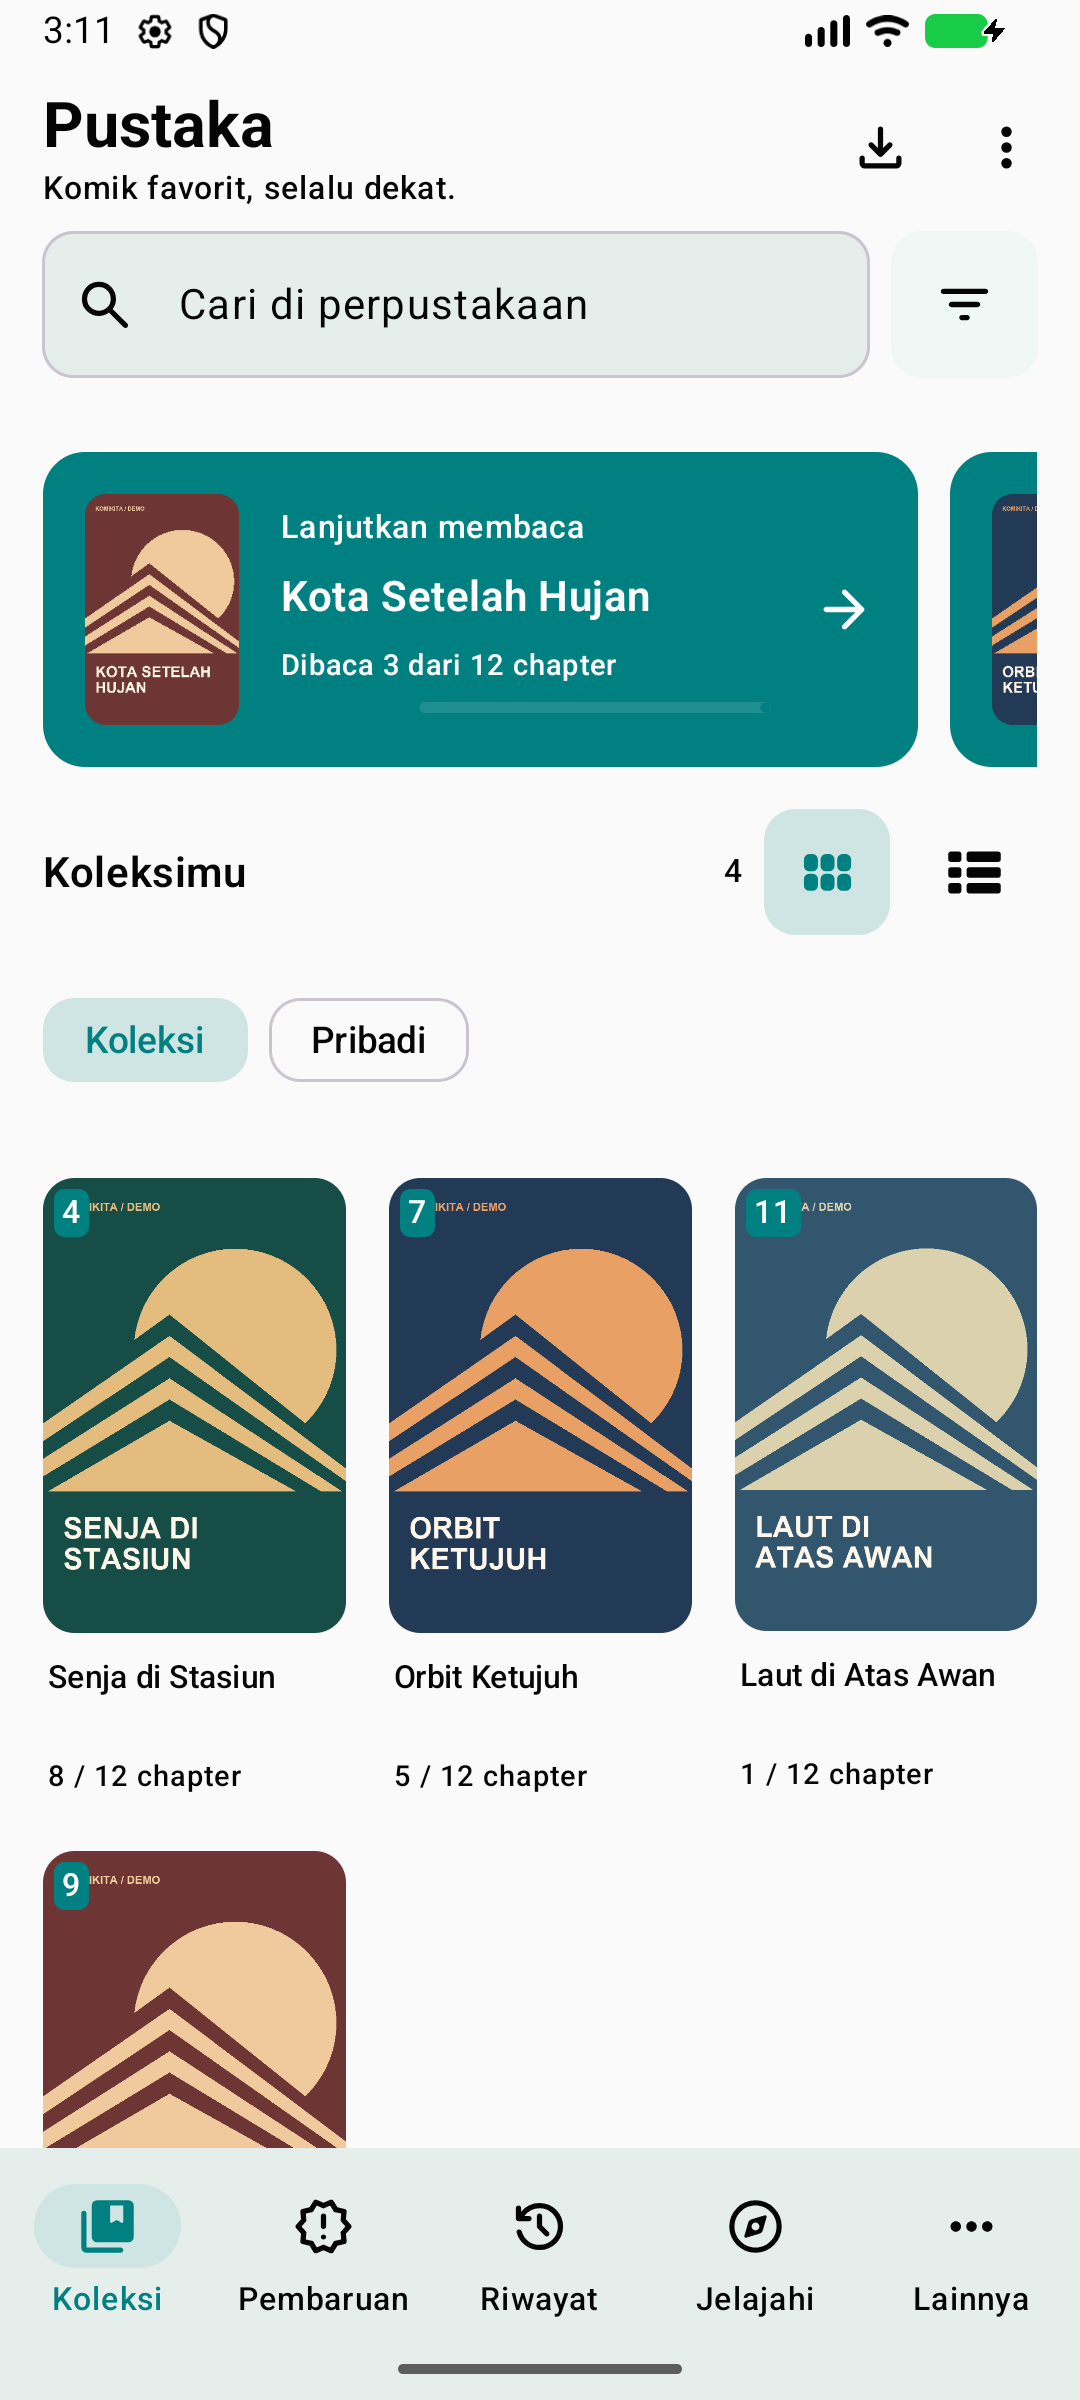
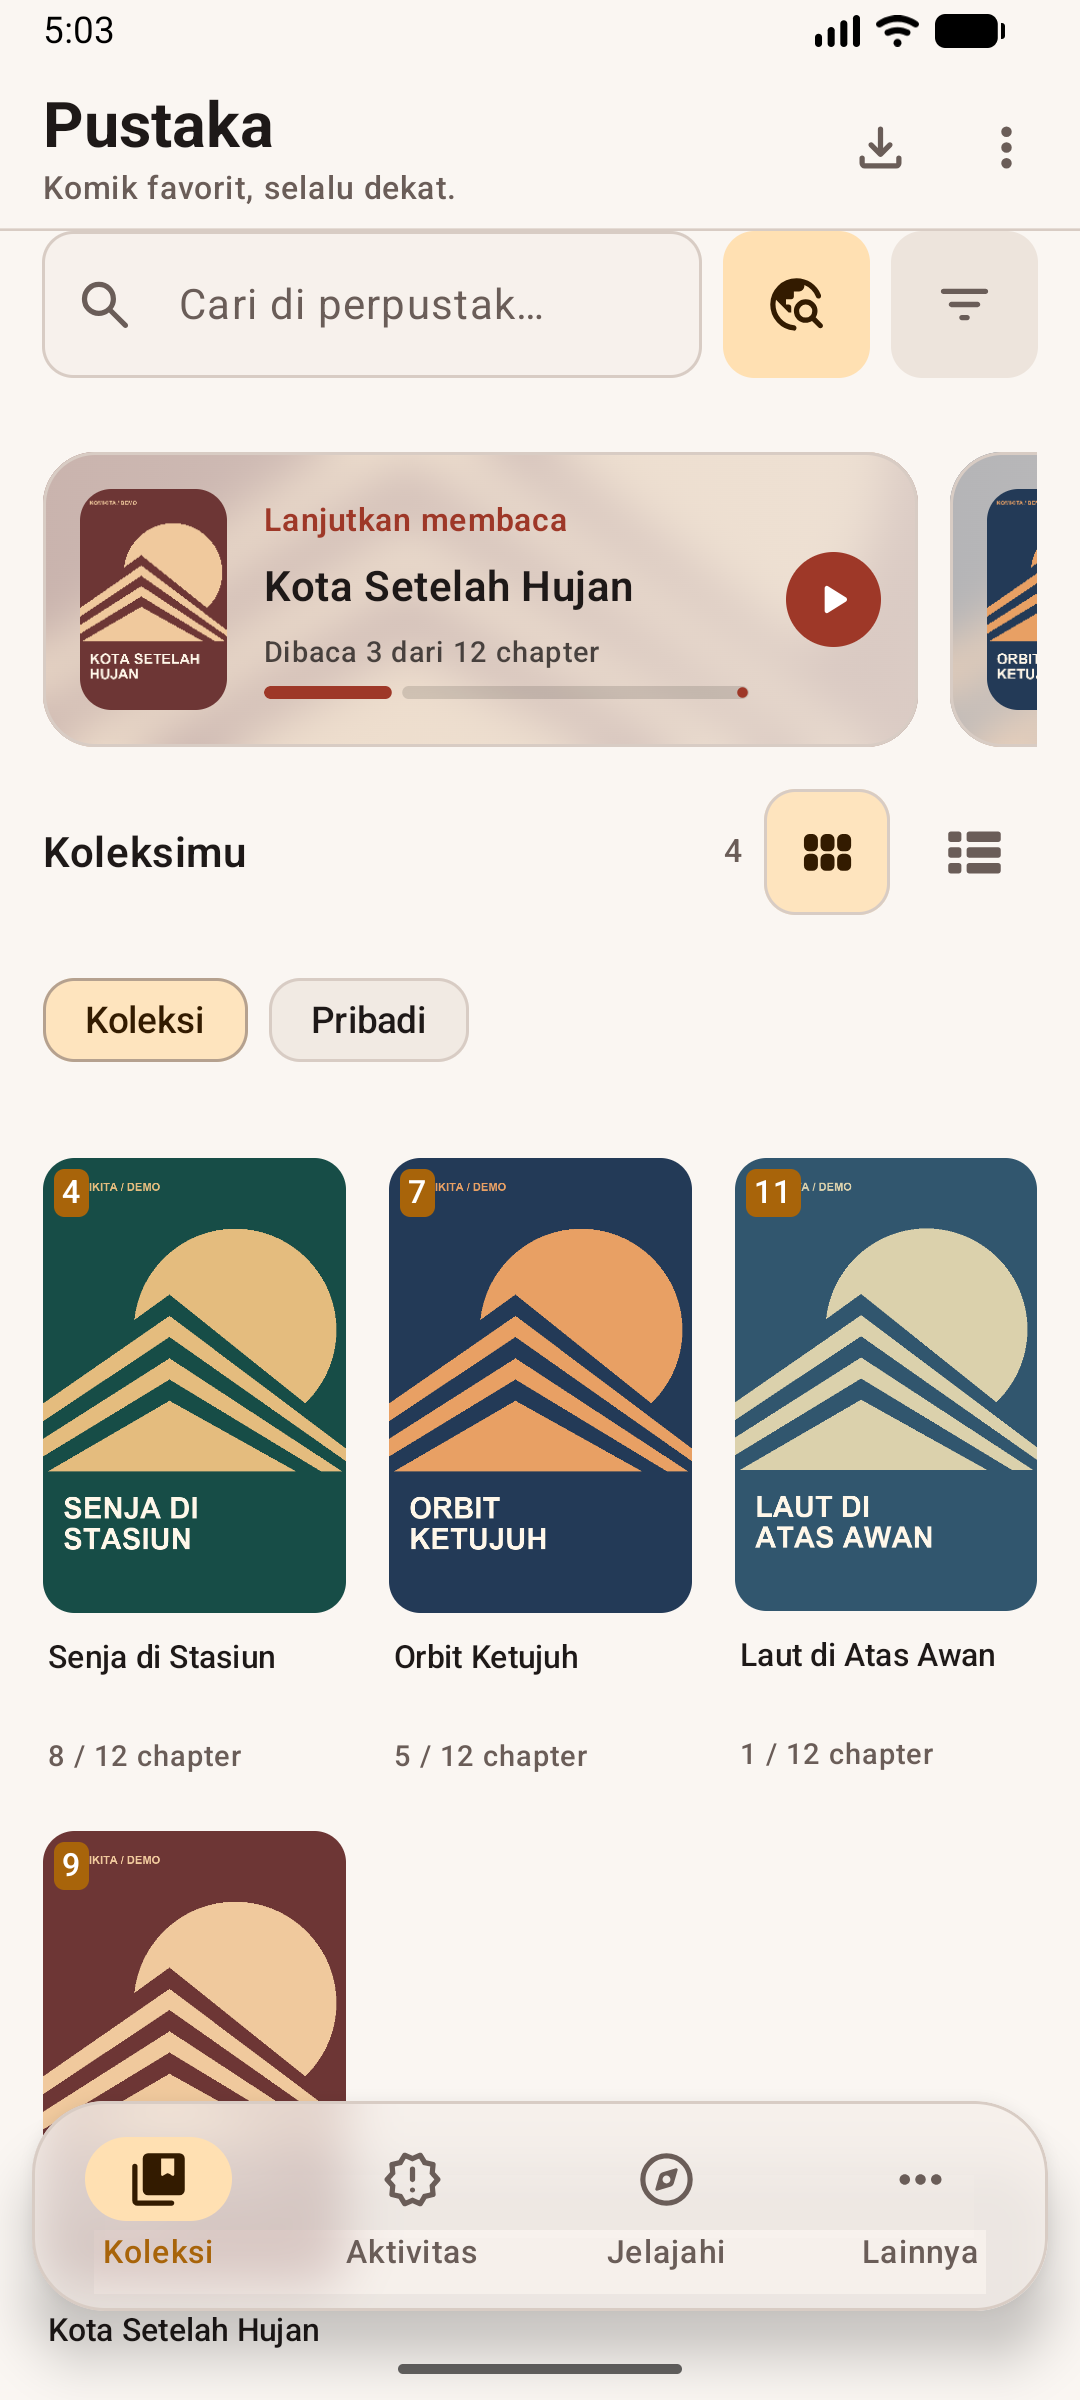
docs(readme): refresh screenshots and feature documentation
Update READMEs and demo tooling to showcase the KomiKita Warm theme,
Glass appearance, and unified Activity tab, including a new activity
screenshot and updated seed preferences.

diff --git a/tools/demo/seed_demo.py b/tools/demo/seed_demo.py
@@ -106,8 +106,9 @@ def main():
         adb("shell", "run-as", PACKAGE, "cp", "/data/local/tmp/komikita-demo.db", "databases/tachiyomi.db")
     prefs = ET.Element("map")
     ET.SubElement(prefs, "boolean", name="__APP_STATE_onboarding_complete", value="true")
-    ET.SubElement(prefs, "string", name="pref_app_theme").text = "TEALTURQUOISE"
+    ET.SubElement(prefs, "string", name="pref_app_theme").text = "KOMIKITA_WARM"
     ET.SubElement(prefs, "string", name="pref_theme_mode_key").text = "LIGHT"
+    ET.SubElement(prefs, "string", name="bottom_navigation_style").text = "GLASS"
     with tempfile.TemporaryDirectory(prefix="komikita-prefs-") as temp:
         prefs_path = Path(temp) / "preferences.xml"
         prefs_path.write_bytes(ET.tostring(prefs, encoding="utf-8", xml_declaration=True))

diff --git a/README.id.md b/README.id.md
@@ -18,14 +18,15 @@ KomiKita adalah aplikasi Android bersumber terbuka untuk membaca manga, komik, d
 </div>
 
 <p align="center">
-  <img src=".github/assets/screenshots/library.png" alt="Pustaka KomiKita dengan carousel Lanjutkan membaca" width="30%" />
-  <img src=".github/assets/screenshots/reading-year.png" alt="Rekap tahunan, chapter selesai, waktu baca, dan streak" width="30%" />
-  <img src=".github/assets/screenshots/privacy.png" alt="Kategori tersembunyi dilindungi biometrik atau PIN perangkat Android" width="30%" />
+  <img src=".github/assets/screenshots/library.png" alt="Pustaka KomiKita dengan tema KomiKita Warm, Glass UI, dan carousel Lanjutkan membaca" width="23%" />
+  <img src=".github/assets/screenshots/activity.png" alt="Tab Aktivitas yang menggabungkan Pembaruan dan Riwayat dengan pengalih cepat" width="23%" />
+  <img src=".github/assets/screenshots/reading-year.png" alt="Rekap tahunan, chapter selesai, waktu baca, dan streak" width="23%" />
+  <img src=".github/assets/screenshots/privacy.png" alt="Kategori tersembunyi dilindungi biometrik atau PIN perangkat Android" width="23%" />
 </p>
 
 Screenshot aplikasi asli dengan judul demo orisinal. [Cara membuat ulang demo](tools/demo/README.md).
 
-KomiKita berawal dari [Mihon](https://github.com/mihonapp/mihon), penerus basis kode Tachiyomi. Fork ini menambahkan pengaturan visibilitas perpustakaan, kartu Lanjutkan Membaca, dan pembaruan dari dalam aplikasi. KomiKita punya ID aplikasi sendiri dan bisa dipasang berdampingan dengan Mihon.
+KomiKita berawal dari [Mihon](https://github.com/mihonapp/mihon), penerus basis kode Tachiyomi. Fork ini menambahkan Glass UI dan tema khusus, tab Aktivitas terpadu, pencarian pustaka semantik, carousel Lanjutkan Membaca, pengaturan visibilitas perpustakaan, pemblokir iklan WebView, serta pembaruan dari dalam aplikasi. KomiKita punya ID aplikasi sendiri dan bisa dipasang berdampingan dengan Mihon.
 
 ## Daftar isi
 
@@ -45,12 +46,16 @@ KomiKita berawal dari [Mihon](https://github.com/mihonapp/mihon), penerus basis 
 
 | Fitur | Cara kerjanya |
 | --- | --- |
+| Tampilan dan tema | Menyertakan tema **KomiKita Warm** dan **Mint Ink** bersama palet bawaan lainnya, serta gaya tampilan **Glass** opsional dengan permukaan transparan dan navigasi blur. |
 | Pembaca | Pilih mode halaman atau webtoon. Arah baca, tema, dan kontrol bisa diatur dari pembaca. |
 | Perpustakaan | Buat kategori, cari dan filter judul, lalu pilih tampilan grid atau daftar. |
+| Pencarian semantik | Cari judul di perpustakaan berdasarkan makna menggunakan model embedding MediaPipe di perangkat langsung dari bilah pencarian. |
 | Lanjutkan Membaca | Geser hingga lima rekomendasi: bacaan terakhir, bacaan lain yang baru dibuka, atau komik dengan chapter baru. Notifikasi chapter baru juga memiliki tombol Lanjutkan membaca. |
+| Tab Aktivitas | Menggabungkan **Pembaruan** dan **Riwayat** dalam satu tab dengan pengalih cepat. |
 | Bacaan offline dan lokal | Unduh chapter atau buka komik yang tersimpan di perangkat. |
 | Privasi | Buka kategori tersembunyi dengan biometrik atau PIN, pola, atau sandi perangkat Android. Kategori terkunci lagi saat aplikasi masuk latar belakang. Judulnya tidak muncul di Lanjutkan membaca, riwayat, notifikasi pembaruan, dan widget. |
 | Visibilitas | Di Jelajah, sembunyikan ekstensi dan sumbernya tanpa mencopot ekstensi. |
+| Pemblokir iklan WebView | Blokir iklan di WebView bawaan menggunakan aturan bawaan, daftar filter yang dapat diunduh, dan aturan kustom. |
 | Statistik membaca | Lihat chapter selesai, waktu baca, streak saat ini dan terpanjang, serta rekap tahunan berisi judul favorit dan waktu baca bulanan. |
 | Log diagnostik | Ekspor log aplikasi terbaru dan detail perangkat dari pengaturan Lanjutan, dengan URL, kredensial, dan judul tersembunyi disamarkan. |
 | Ikon ekstensi | Tampilkan ikon ekstensi pada komik di perpustakaan. |
@@ -75,7 +80,6 @@ Untuk unduhan yang lebih kecil di perangkat ARM64, pilih `komikita-arm64-v8a-vX.
 | --- | --- |
 | `komikita-arm64-v8a-vX.Y.Z.apk` | Ponsel dan tablet ARM64. |
 | `komikita-armeabi-v7a-vX.Y.Z.apk` | Perangkat dengan ARM 32-bit. |
-| `komikita-x86-vX.Y.Z.apk` | Perangkat atau emulator x86 32-bit. |
 | `komikita-x86_64-vX.Y.Z.apk` | Perangkat atau emulator x86 64-bit. |
 | `komikita-vX.Y.Z.apk` | APK universal untuk semua arsitektur di atas. |
 

diff --git a/README.md b/README.md
@@ -18,14 +18,15 @@ KomiKita is an open-source Android app for reading manga, comics, and webtoons. 
 </div>
 
 <p align="center">
-  <img src=".github/assets/screenshots/library.png" alt="KomiKita library with a Continue reading carousel" width="30%" />
-  <img src=".github/assets/screenshots/reading-year.png" alt="Reading year recap, completed chapters, reading time, and streaks" width="30%" />
-  <img src=".github/assets/screenshots/privacy.png" alt="Hidden categories protected by Android biometrics or device PIN" width="30%" />
+  <img src=".github/assets/screenshots/library.png" alt="KomiKita library in KomiKita Warm theme with Glass UI and Continue reading carousel" width="23%" />
+  <img src=".github/assets/screenshots/activity.png" alt="Activity tab combining Updates and History with a quick switcher" width="23%" />
+  <img src=".github/assets/screenshots/reading-year.png" alt="Reading year recap, completed chapters, reading time, and streaks" width="23%" />
+  <img src=".github/assets/screenshots/privacy.png" alt="Hidden categories protected by Android biometrics or device PIN" width="23%" />
 </p>
 
 Actual app screenshots with original demo titles. [Reproduce the demo](tools/demo/README.md).
 
-[Mihon](https://github.com/mihonapp/mihon) carries on the Tachiyomi codebase. KomiKita is a Mihon fork that adds library visibility controls, a Continue reading card, and in-app updates. Its separate application ID lets you install it alongside Mihon.
+[Mihon](https://github.com/mihonapp/mihon) carries on the Tachiyomi codebase. KomiKita is a Mihon fork that adds Glass UI and custom themes, a unified Activity tab, semantic library search, a Continue reading carousel, library visibility controls, a WebView ad blocker, and in-app updates. Its separate application ID lets you install it alongside Mihon.
 
 ## Contents
 
@@ -45,12 +46,16 @@ Actual app screenshots with original demo titles. [Reproduce the demo](tools/dem
 
 | Feature | How it works |
 | --- | --- |
+| Appearance & themes | Includes **KomiKita Warm** and **Mint Ink** themes alongside built-in palettes, plus an optional **Glass** appearance style with translucent surfaces and backdrop-blurred navigation. |
 | Reader | Choose page or webtoon mode. Set the reading direction, theme, and controls in the reader. |
 | Library | Create categories, search and filter titles, and switch between grid and list views. |
+| Semantic search | Search your library by meaning using an on-device MediaPipe embedding model directly from the library toolbar. |
 | Continue reading | Swipe through up to five recommendations. Keep reading your latest title or pick another recent read or update. New chapter notifications also offer a Continue reading action. |
+| Activity tab | Combines **Updates** and **History** into a single tab with a quick switcher. |
 | Offline and local reading | Download chapters or open comics stored on your device. |
 | Privacy | Unlock hidden categories using Android biometrics or your device PIN, pattern, or password. They lock again in the background. Hidden titles stay out of Continue reading, history, update notifications, and widgets. |
 | Visibility | In Browse, hide extensions and their sources without uninstalling them. |
+| WebView ad blocker | Block ads in the built-in WebView using built-in rules, downloadable filter lists, and custom rules. |
 | Reading statistics | See completed chapters, reading time, current and best streaks, and yearly recaps with your most read titles and monthly reading time. |
 | Diagnostic logs | Export recent app logs and device details from Advanced settings, with URLs, credentials, and hidden titles redacted. |
 | Extension icons | Show extension icons on library covers. |
@@ -75,7 +80,6 @@ For a smaller download on an ARM64 device, choose `komikita-arm64-v8a-vX.Y.Z.apk
 | --- | --- |
 | `komikita-arm64-v8a-vX.Y.Z.apk` | ARM64 phones and tablets. |
 | `komikita-armeabi-v7a-vX.Y.Z.apk` | Devices using 32-bit ARM. |
-| `komikita-x86-vX.Y.Z.apk` | Devices or emulators using 32-bit x86. |
 | `komikita-x86_64-vX.Y.Z.apk` | Devices or emulators using 64-bit x86. |
 | `komikita-vX.Y.Z.apk` | Universal APK for all architectures listed above. |
 

diff --git a/tools/demo/README.md b/tools/demo/README.md
@@ -4,8 +4,8 @@ The screenshots in `.github/assets/screenshots/` are captures of the Android app
 
 1. Start an Android emulator and install a debug APK built with `./gradlew :app:assembleDebug -Penable-rust=false`.
 2. Launch the debug app once and let the welcome screen load, so the database and preference directories exist.
-3. With Python 3, Pillow, and `adb` on the PATH, run `python tools/demo/seed_demo.py`. The script only targets `app.komikita.dev` on an emulator and refuses a nonempty library. It preserves the empty installation's schema and adds four sample titles, reading history, and daily activity.
+3. With Python 3, Pillow, and `adb` on the PATH, run `python tools/demo/seed_demo.py`. The script only targets `app.komikita.dev` on an emulator and refuses a nonempty library. It preserves the empty installation's schema, applies the **KomiKita Warm** light theme with **Glass** appearance style, and adds four sample titles, reading history, and daily activity.
 4. To match the captures, set the app language to Indonesian using Android's app-language settings or `adb shell cmd locale set-app-locales app.komikita.dev --user 0 --locales id`.
-5. Capture the library and **More → Statistics**. For the privacy screen, add a title to the **Pribadi** category, hide that category under **More → Categories**, then return after putting the app in the background. Device credentials are configured through Android; the script does not set a PIN.
+5. Capture the library, the **Activity** tab, and **More → Statistics**. For the privacy screen, add a title to the **Pribadi** category, hide that category under **More → Categories**, then return after putting the app in the background. Device credentials are configured through Android; the script does not set a PIN.
 
 Capture with `android screen capture -o <path>`. Keep screenshots unmodified and inspect every capture before adding it to the README. Demo activity uses the capture date, so recap totals will vary when the script is run again.
